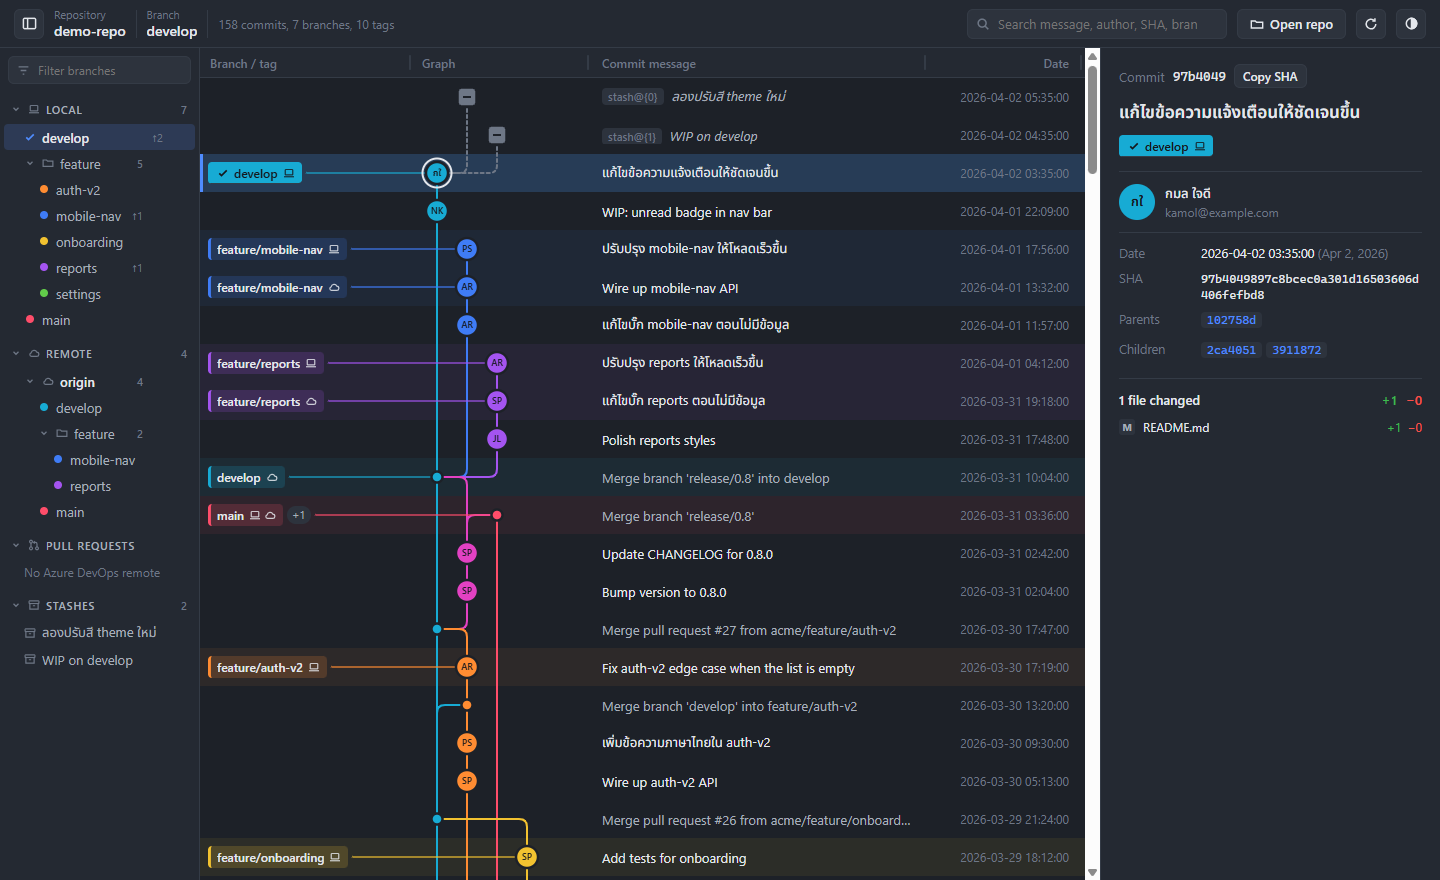
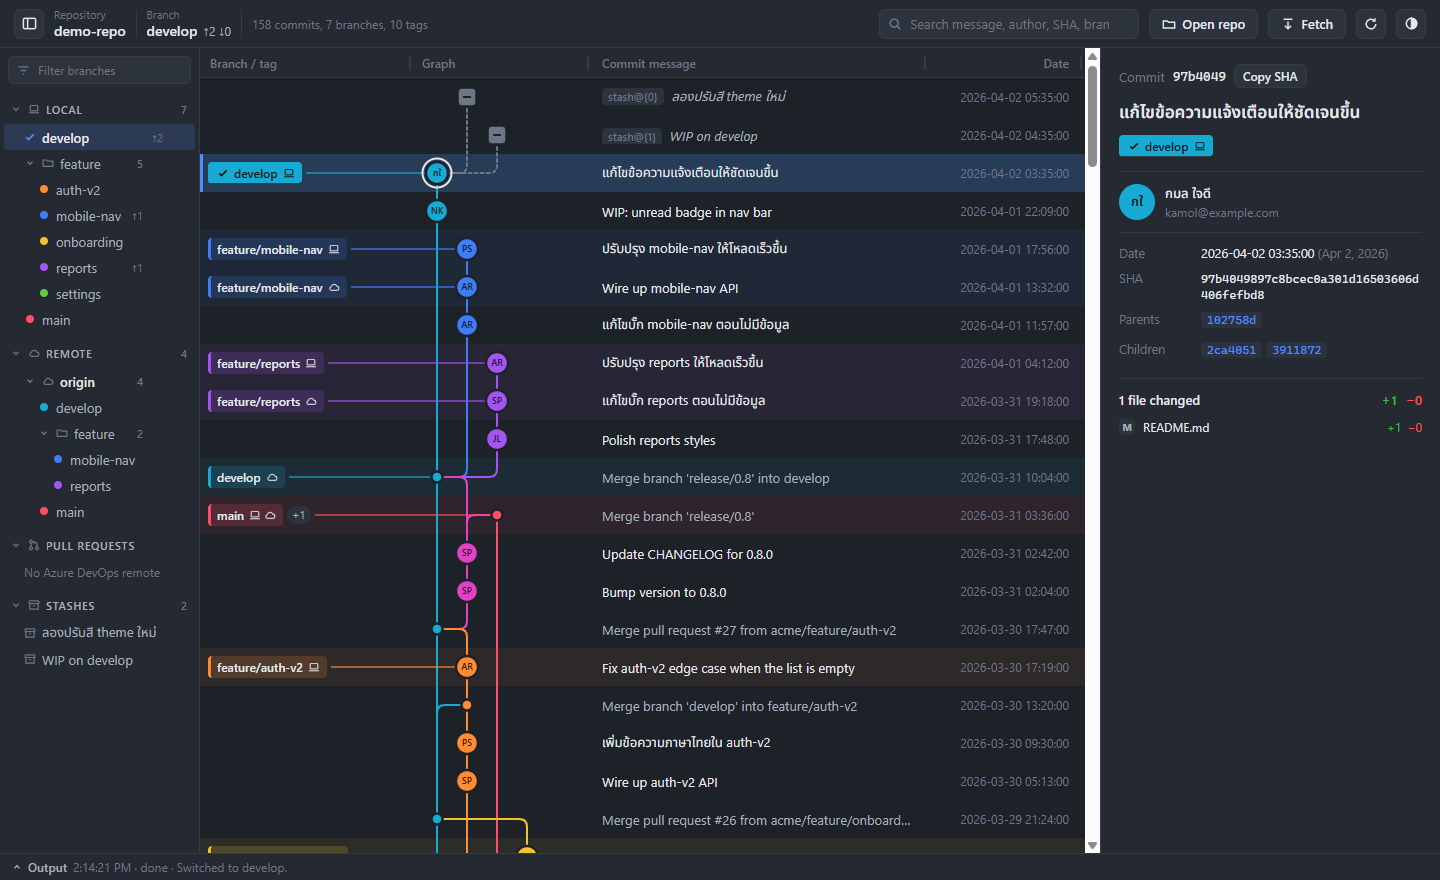
เอกสาร(readme): อัปเดต README และภาพหน้าจอให้ตรงกับ v0.2.0

diff --git a/README.md b/README.md
@@ -2,7 +2,7 @@
 
 A GitKraken-style Git history viewer for the desktop. It reads repositories on your machine directly. Its focus is a commit, branch and merge graph that is easy to read and stays smooth even with hundreds of thousands of commits.
 
-> This is a **read-only** version: it never changes anything in your repository. To commit, check out, merge, push or stage, use your editor or a terminal as usual.
+> GitKrapao changes your repository only when you ask it to **Fetch** or **Switch branch**. It never commits, merges your work, rebases, pushes, or deletes branches or tags. Use your editor or a terminal for those, as usual.
 
 Built with Tauri 2 (Rust) and TypeScript (strict) with plain HTML/CSS and no framework; esbuild bundles the UI into one file.
 
@@ -19,6 +19,13 @@ Built with Tauri 2 (Rust) and TypeScript (strict) with plain HTML/CSS and no fra
   - every branch, split into LOCAL and REMOTE, grouped into folders by name, with ahead/behind counts
   - STASHES
   - PULL REQUESTS from Azure DevOps
+- **Fetch:** the toolbar button or `Ctrl Shift F` runs `git fetch --all --prune`, set up so it never deletes or overwrites a local branch or tag. It runs only when you ask; there is no background fetch. Ahead/behind counts for the current branch show next to its name.
+- **Switch branch:** double-click a branch in the left panel or a label in the graph, or right-click it and choose **Switch to**.
+  - A remote branch with no local copy gets a local branch that tracks it.
+  - A local branch that is only behind its remote is fast-forwarded. One with its own commits is left as it is.
+  - Uncommitted changes are never lost. If switching would overwrite them, the app asks whether to stash them first, untracked files included.
+- **Trust check:** a repository's own config or hooks can make git run programs. Before a fetch or switch, the app lists any it finds and asks once; it asks again only when they change.
+- **Output:** a drawer at the bottom with every fetch and switch: the git commands, how long they took and what git printed.
 - **Hide branches and Solo:** hide branches you don't care about, or show only a few. The choice is remembered per repository.
 - **WIP row:** uncommitted files, staged and unstaged, at the top of the graph.
 - **Stashes in the graph:** gray nodes above the commit each stash was made on.
@@ -42,6 +49,7 @@ To see Azure DevOps pull requests, install the [Azure CLI](https://learn.microso
 |---|---|
 | Open a repository | `Ctrl O` |
 | Full reload | `Ctrl R` or `F5` |
+| Fetch | `Ctrl Shift F` |
 | Show/hide the left panel | `Ctrl B` |
 | Move between commits | `↑` `↓` or `J` `K`, `Home` / `End` |
 | Search | `/`, then type; `Enter` jumps to the next match |
@@ -53,9 +61,13 @@ On macOS use `⌘` instead of `Ctrl`.
 
 ## Privacy
 
-- The app reads repositories only through the machine's own `git` command. There is no server, no telemetry, and your code is never sent anywhere.
-- The only outside connection is fetching pull requests with `az`, using the account you signed in with. The app stores no tokens.
-- Diff commands always run with `--no-ext-diff --no-textconv`, so a repository's config can never make the app run other programs.
+- The app works only through the machine's own `git` command. There is no server, no telemetry, and your code is never sent anywhere.
+- It connects outside your machine in two cases:
+  - **Fetch**, only when you press it. It contacts the repository's remotes with your own git credentials and SSH setup.
+  - **Pull requests**, fetched with `az` using the account you signed in with.
+- The app stores no tokens or passwords.
+- Viewing history and diffs always runs with `--no-ext-diff --no-textconv`, so a repository's config cannot make it run other programs.
+- Fetch and switch run whatever git normally runs, such as hooks and filters. When those come from the repository itself, the trust check asks you first. Your answers are kept as SHA-256 hashes in `trust.json` in the app's data folder.
 
 ## Development
 
@@ -110,6 +122,8 @@ src/                    UI source; scripts/web.mjs bundles it into dist/
   app.css
 src-tauri/
   src/lib.rs            Rust commands that run git and hand data to the UI
+  src/fetch.rs          fetch, the trust check and the time limit for git
+  src/switch.rs         switch branch, fast-forward and stash
   tests/fixtures/       real git output used by the unit tests
   tauri.conf.json       app name, window, CSP, bundling
 scripts/
@@ -136,3 +150,5 @@ Never rename the keys or the identifier, or users lose their saved settings.
 | `cargo metadata ... program not found` during `pnpm run dev` | The VS Code terminal still has the PATH from before Rust was installed. Close every VS Code window and reopen it. `scripts/tauri.mjs` already handles the usual case. |
 | `link: extra operand` | MSVC's `link.exe` was not found, so Git's `link` ran instead. Install the "Desktop development with C++" workload. |
 | PRs say "Sign in first" | Run `az login` in a terminal, then press Refresh. |
+| Fetch says "Authentication failed" or times out | The app never shows git's password prompt. For HTTPS, run `git fetch` once in a terminal so Git Credential Manager saves your sign-in. For SSH, start ssh-agent and add your key with `ssh-add`. Then fetch again. |
+| Switch asks to stash | Switching would overwrite uncommitted changes. Choose **Stash and switch** to keep them in a stash (shown under STASHES), or **Cancel** and commit them first. |
